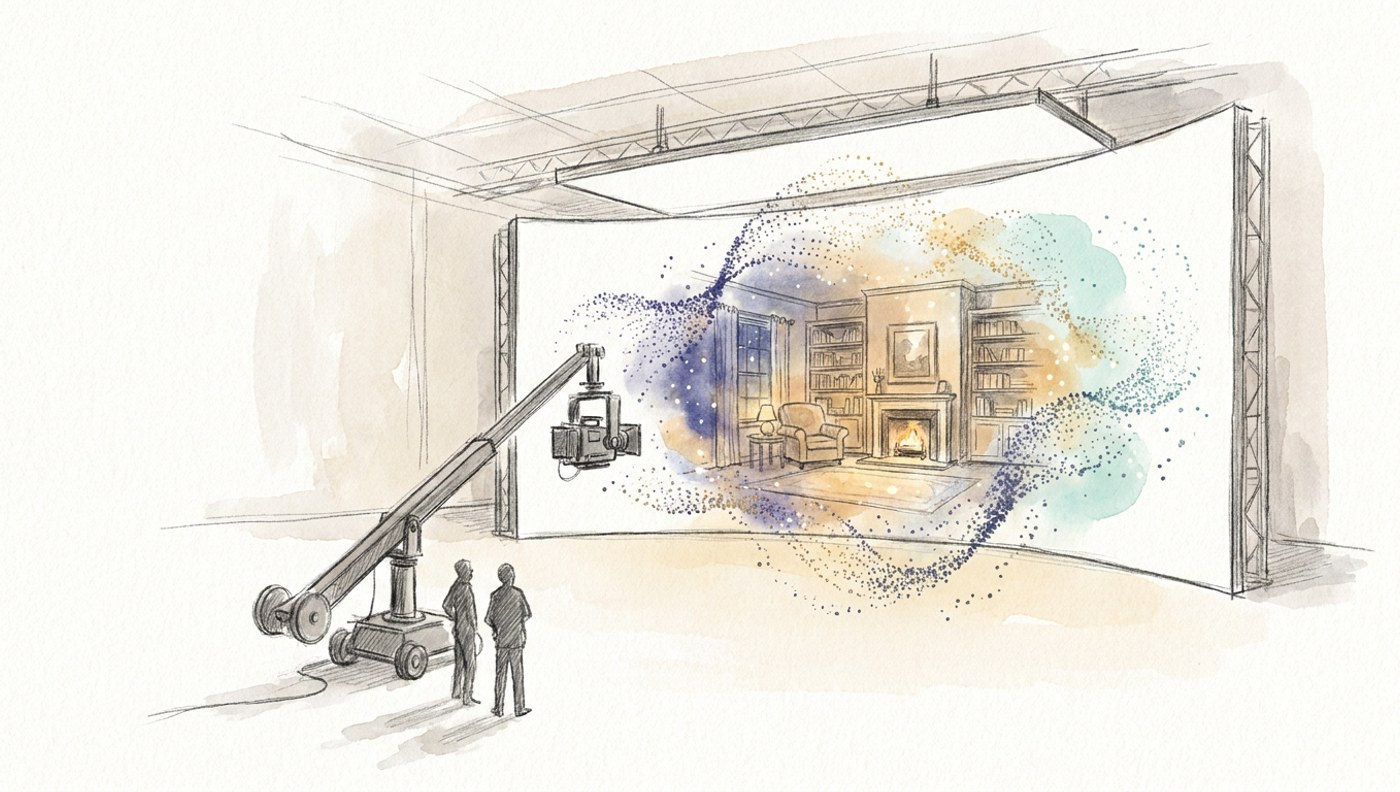
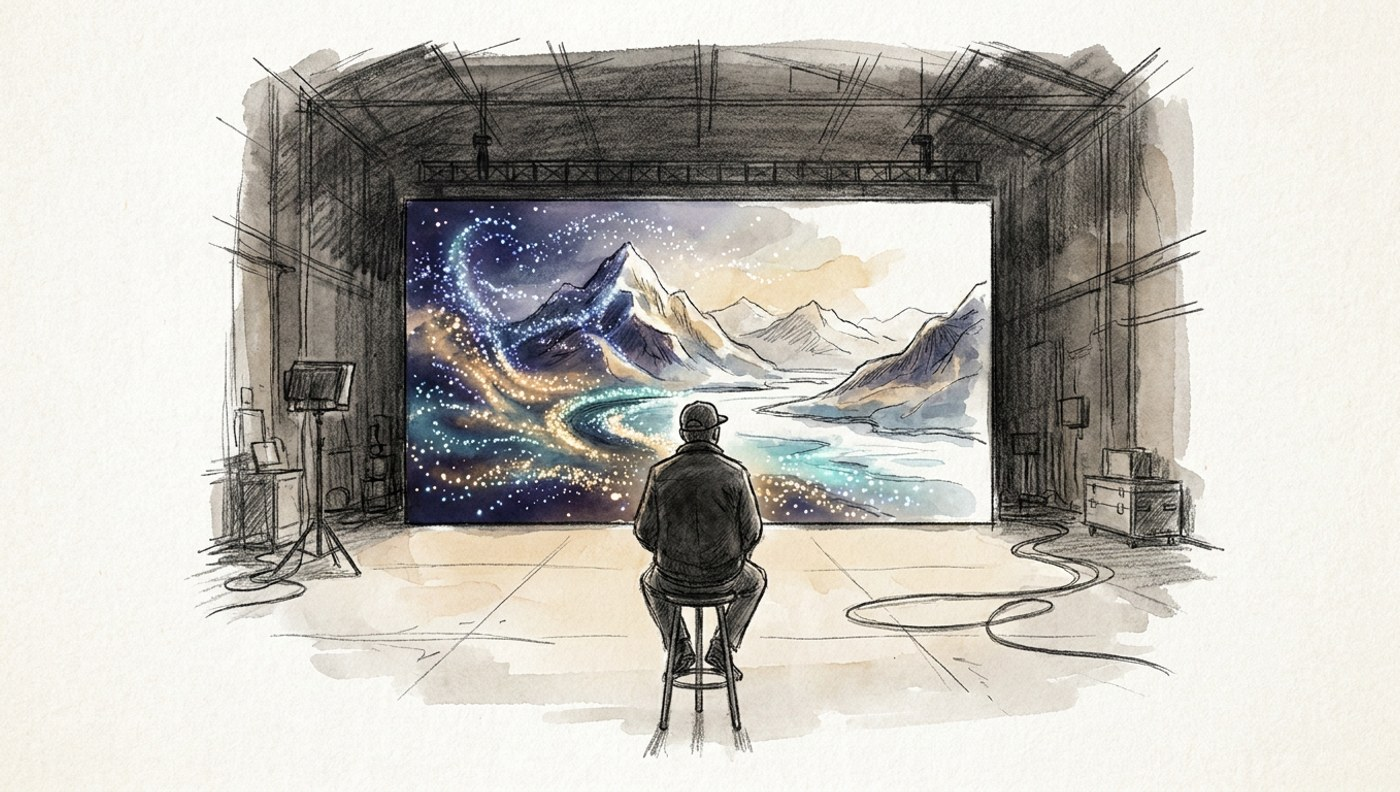
refactor: one hero pair shared across PL/EN (Antarctic frozen-river motif)
Artur 2026-07-12: light/dark may differ, PL/EN need not. The Antarctic pair
(the essay closing metaphor) becomes the shared hero; the room pair and the
-en files are removed. heroAlt stays per-language.

diff --git a/src/essays/the-light-that-thinks.md b/src/essays/the-light-that-thinks.md
@@ -3,8 +3,8 @@ title: "The Light That Thinks"
 description: "On the seminar my team ran at Camerimage, the frozen river we put into a trailer by mistake, and how prompt-generated Gaussian splatting shifts the weight of cinema from performance to world-building."
 date: 2026-07-11
 pair: /eseje/swiatlo-ktore-mysli/
-heroLight: ill-swiatlo-en-1400
-heroDark: dill-swiatlo-en-1400
+heroLight: ill-swiatlo-1400
+heroDark: dill-swiatlo-1400
 heroAlt: "Pencil-and-watercolor sketch: a lone filmmaker faces a vast LED wall on which an Antarctic landscape with a winding frozen river assembles itself from drifting points of light"
 readingTime: 5
 audio: /assets/audio/the-light-that-thinks-en.mp3

diff --git a/src/eseje/swiatlo-ktore-mysli.md b/src/eseje/swiatlo-ktore-mysli.md
@@ -5,7 +5,7 @@ date: 2026-07-11
 pair: /essays/the-light-that-thinks/
 heroLight: ill-swiatlo-1400
 heroDark: dill-swiatlo-1400
-heroAlt: "Szkic ołówkiem z akwarelą: hala zdjęciowa, na ścianie LED z chmury świetlnych punktów wyłania się przytulny pokój; na pierwszym planie kamera na kranie i dwie sylwetki ekipy"
+heroAlt: "Szkic ołówkiem z akwarelą: samotny filmowiec przed wielką ścianą LED, na której z dryfujących punktów światła składa się antarktyczny pejzaż z wijącą się zamarzniętą rzeką"
 readingTime: 5
 audio: /assets/audio/swiatlo-ktore-mysli-pl.mp3
 ---